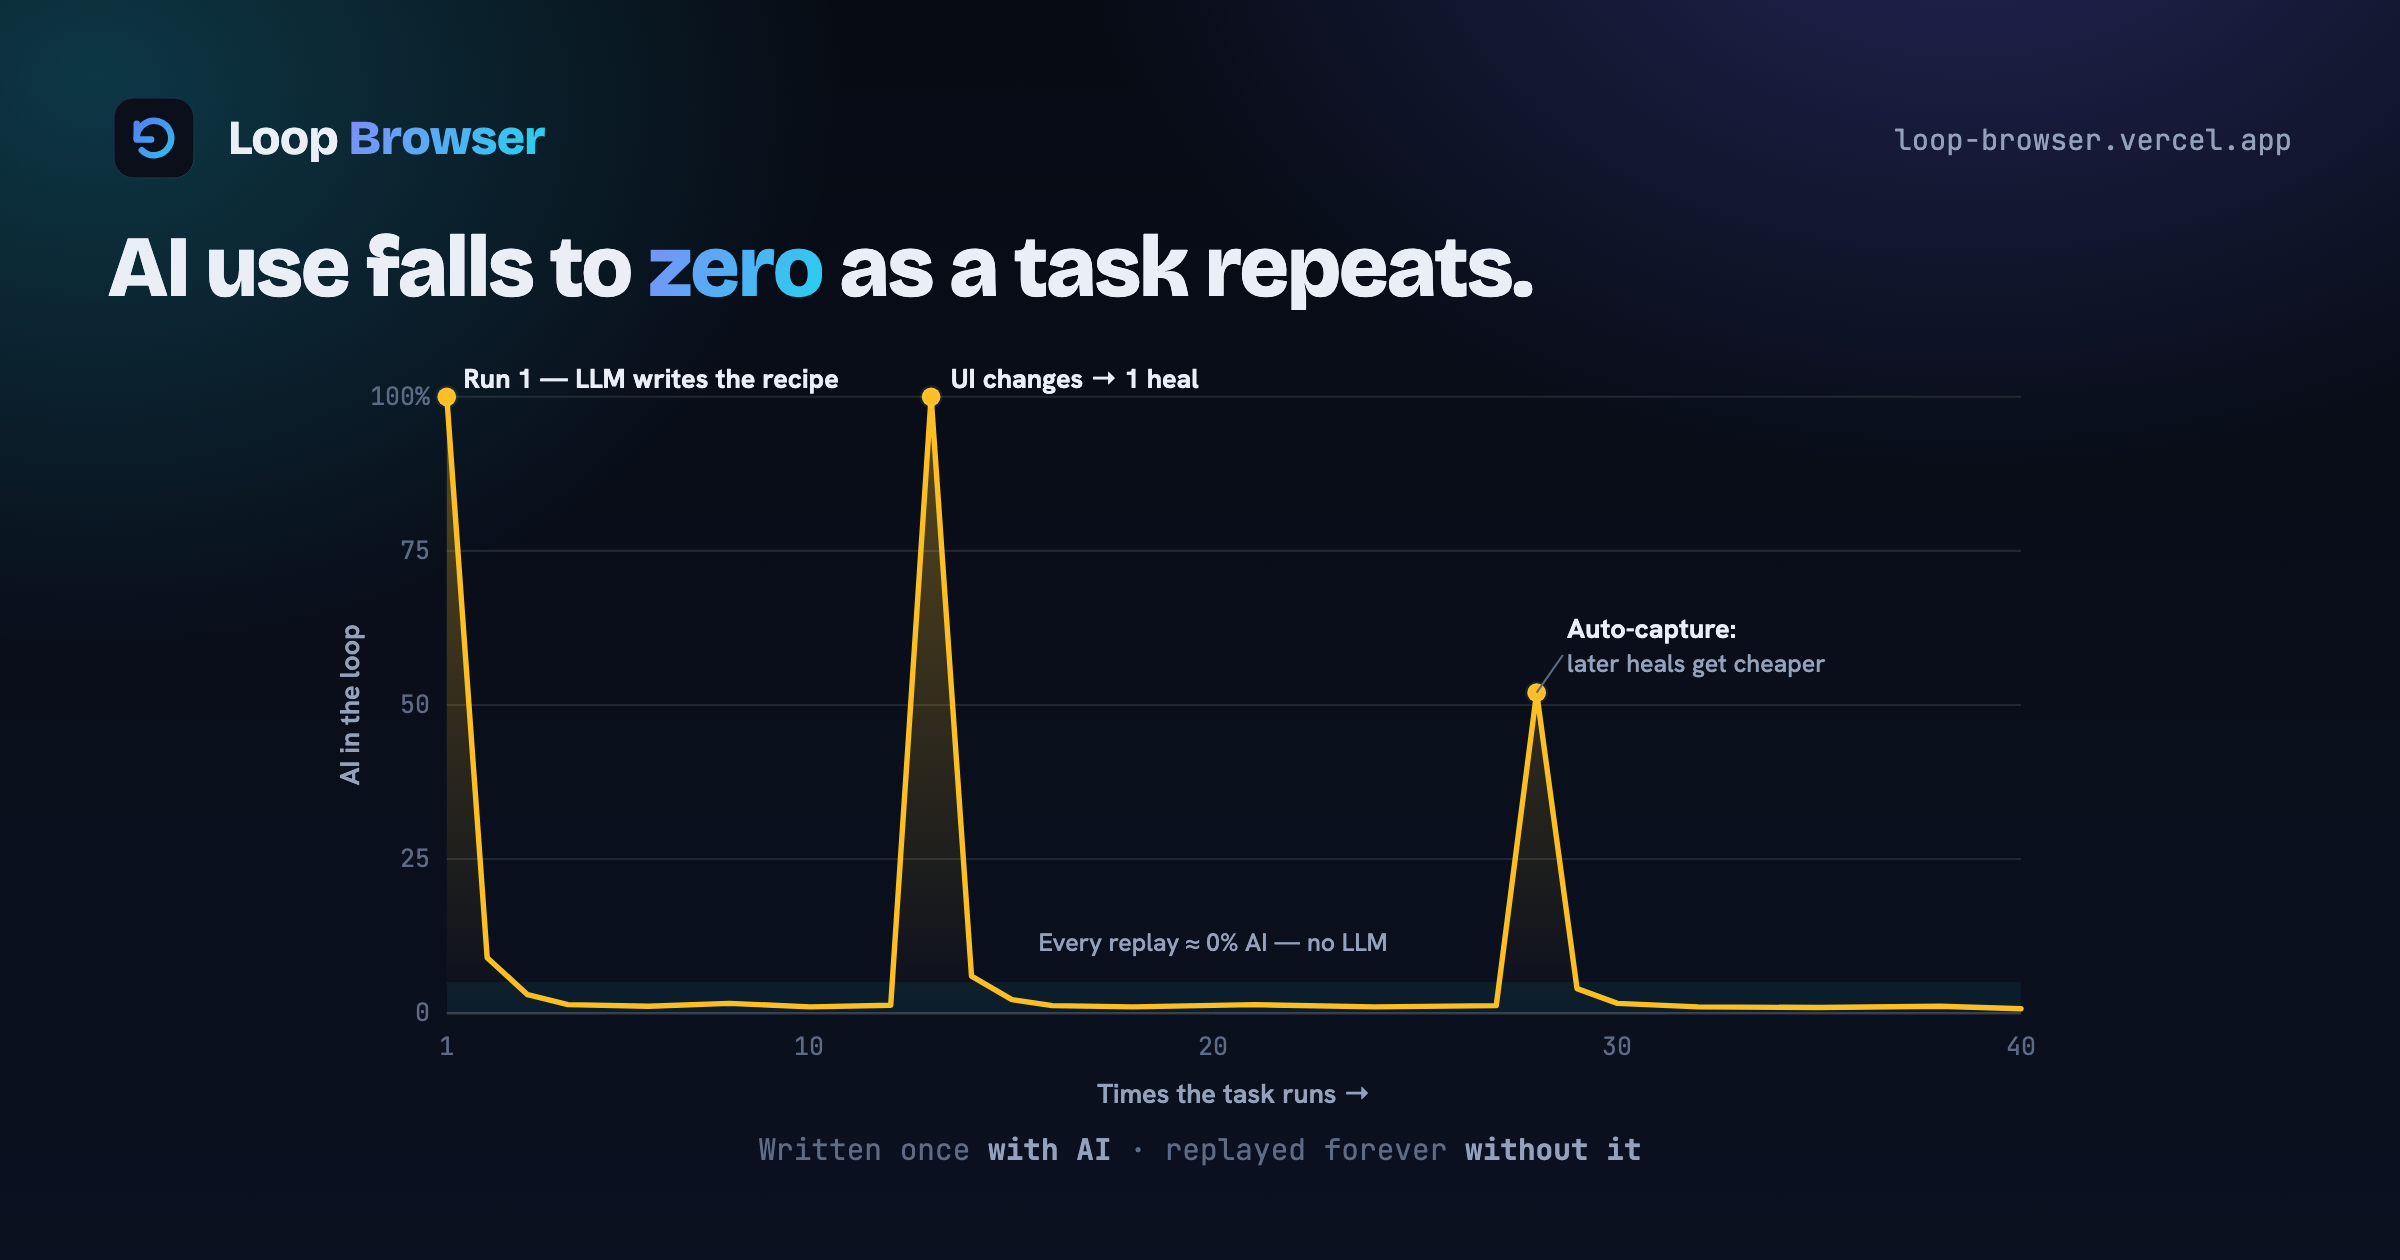
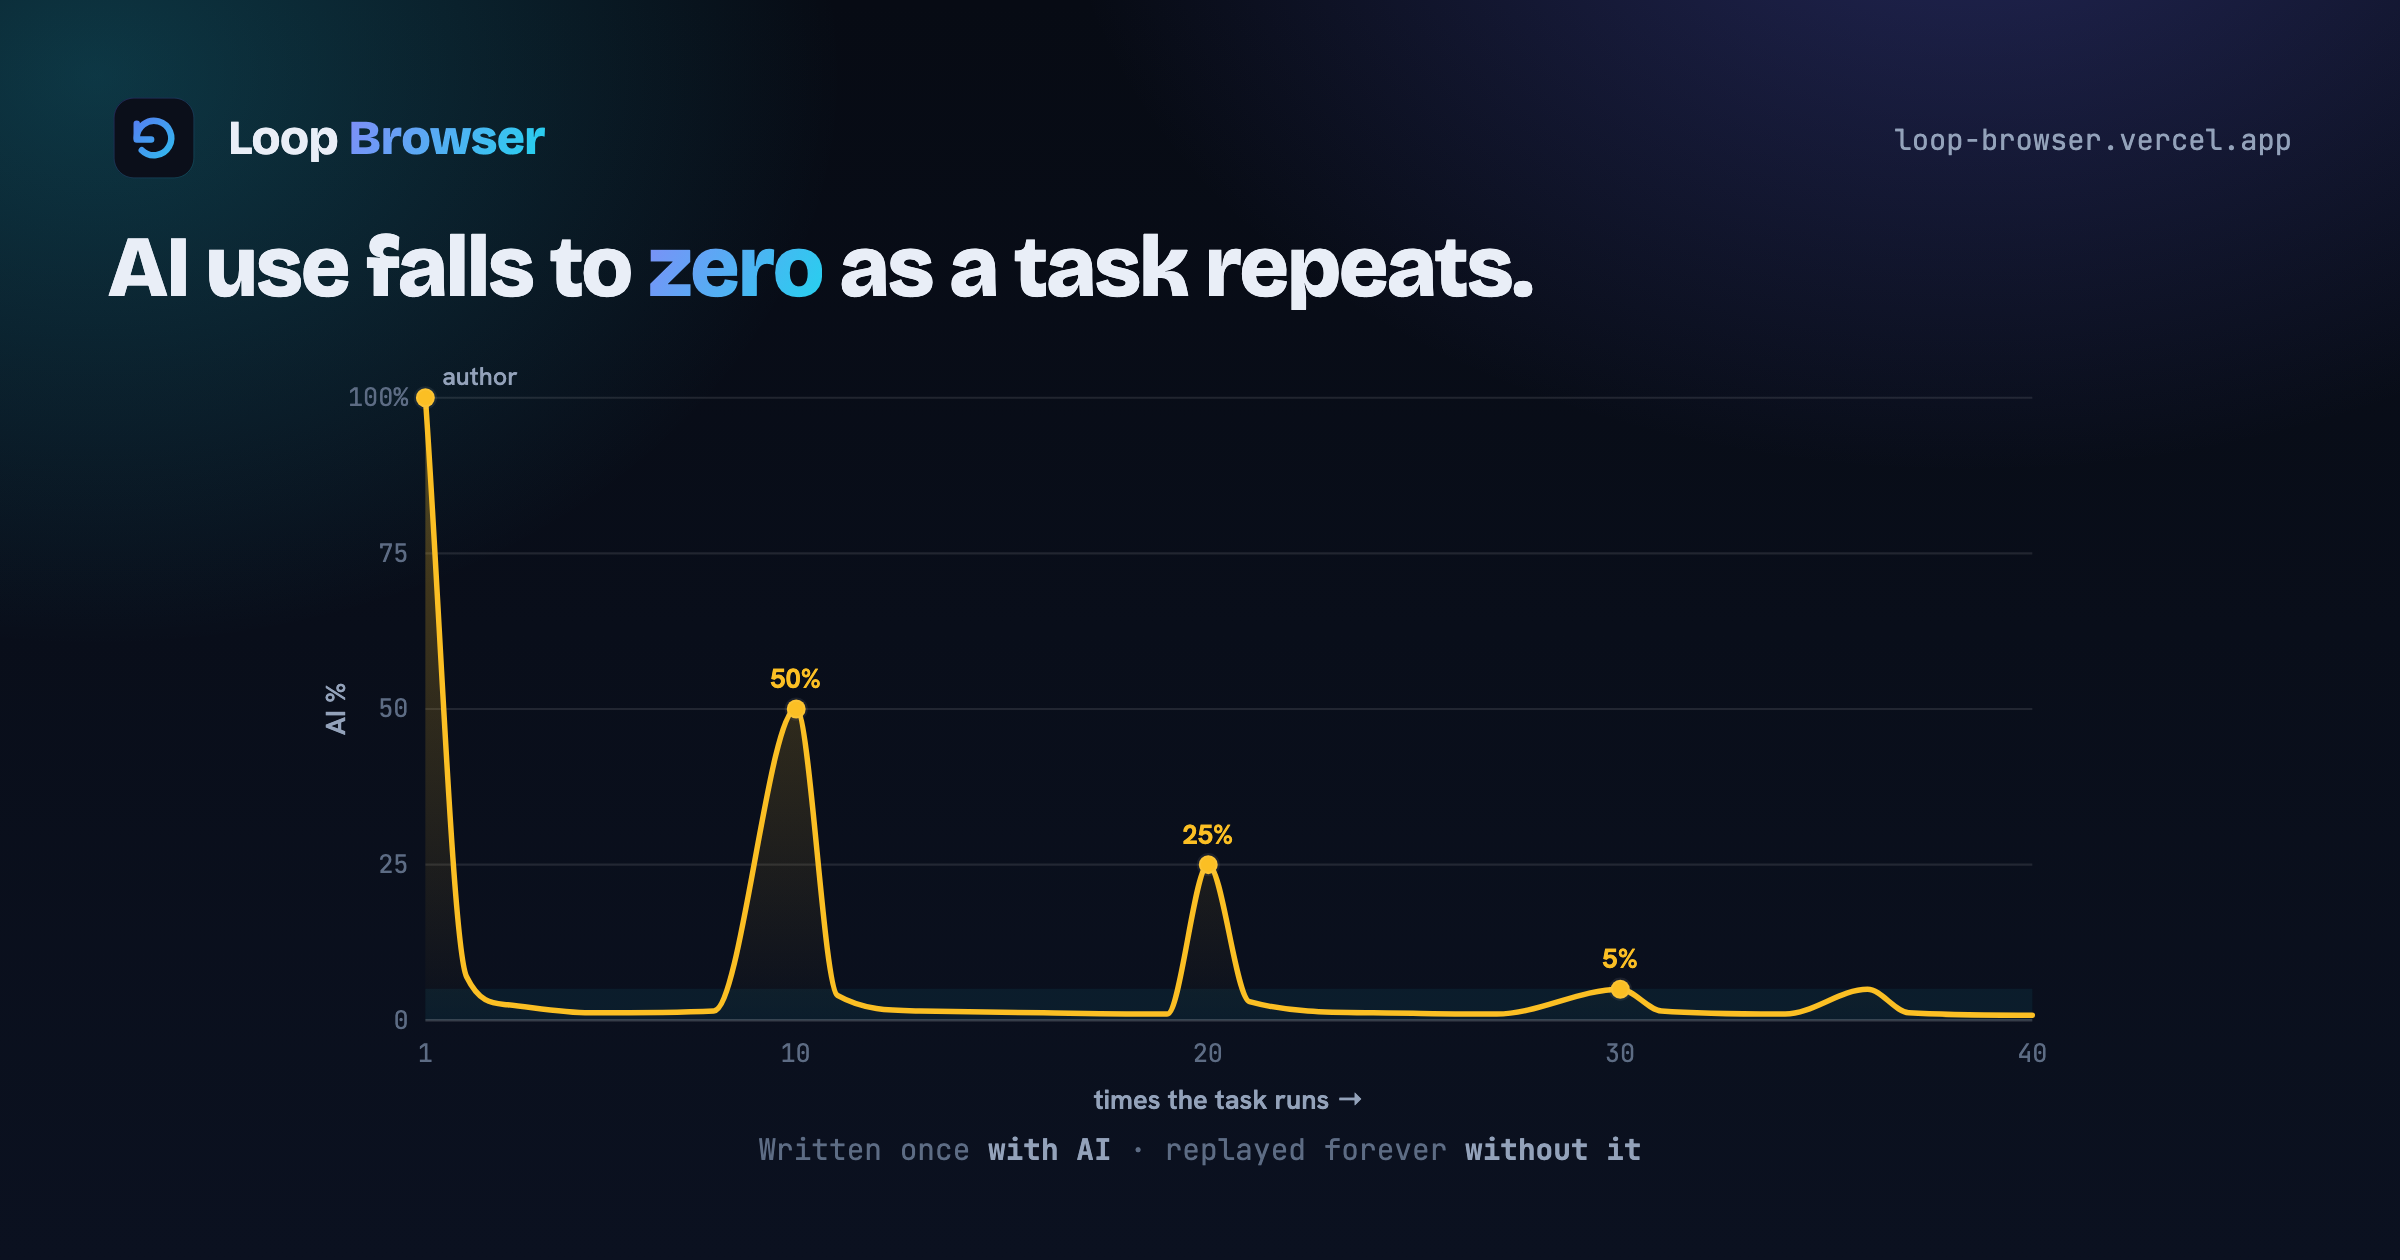
Site chart: smooth curves + decaying heals (50/25/5%), minimal labels
- Monotone-cubic curve instead of sharp spikes
- Heals now decay 50%->25%->5% (not full 100%), showing AI use drops over time
- Strip verbose annotations to just 'author' + the three heal %s; tighten subtitle
- Regenerate og.png to match

diff --git a/site/index.html b/site/index.html
@@ -320,6 +320,7 @@ footer{border-top:1px solid var(--border);padding:40px 0 56px;margin-top:40px}
     .cx-dot{fill:var(--ai);stroke:var(--panel-2);stroke-width:2}
     .cx-note{fill:var(--text);font-family:var(--body);font-size:13px;font-weight:700}
     .cx-note-sm{fill:var(--muted);font-family:var(--body);font-size:12px;font-weight:500}
+    .cx-pct{fill:var(--ai);font-family:var(--body);font-size:13px;font-weight:700}
     .cx-lead{stroke:var(--faint);stroke-width:1}
     .cx-free{fill:var(--cyan);opacity:.07}
   </style>
@@ -327,61 +328,54 @@ footer{border-top:1px solid var(--border);padding:40px 0 56px;margin-top:40px}
     <div class="head">
       <div class="eyebrow">The economics</div>
       <h2>AI use falls to <span class="g">zero</span> as a task repeats.</h2>
-      <p class="sub">The first run pays for the intelligence — the LLM writes the recipe. Every run after replays it deterministically, for free. When a page changes, one heal re-teaches the step; auto-capture makes the next heal cheaper, and it settles back to zero.</p>
+      <p class="sub">The first run writes the recipe. Every replay after is free — and even the occasional heal needs less AI each time.</p>
     </div>
     <figure class="cost-fig">
       <svg viewBox="0 0 840 380" role="img" aria-labelledby="cxT cxD">
         <title id="cxT">AI in the loop versus number of times a task has run</title>
-        <desc id="cxD">Starts at 100% on the first run when the LLM authors the recipe, drops to near zero on deterministic replays, spikes when a UI change forces a heal, and settles back toward zero as each heal gets cheaper.</desc>
+        <desc id="cxD">100% on the first run when the LLM writes the recipe, near zero on deterministic replays, and brief heal humps that shrink over time — 50%, then 25%, then about 5%.</desc>
         <defs>
           <linearGradient id="costGrad" x1="0" y1="0" x2="0" y2="1">
-            <stop offset="0" stop-color="var(--ai)" stop-opacity=".34"/>
+            <stop offset="0" stop-color="var(--ai)" stop-opacity=".32"/>
             <stop offset="1" stop-color="var(--ai)" stop-opacity="0"/>
           </linearGradient>
         </defs>
 
-        <!-- free zone -->
-        <rect class="cx-free" x="58" y="315" width="756" height="15"/>
+        <rect class="cx-free" x="52" y="317" width="764" height="15"/>
 
-        <!-- y grid + ticks -->
-        <line class="cx-grid" x1="58" y1="34"  x2="814" y2="34"/>
-        <line class="cx-grid" x1="58" y1="108" x2="814" y2="108"/>
-        <line class="cx-grid" x1="58" y1="182" x2="814" y2="182"/>
-        <line class="cx-grid" x1="58" y1="256" x2="814" y2="256"/>
-        <text class="cx-tick" x="50" y="38"  text-anchor="end">100%</text>
-        <text class="cx-tick" x="50" y="112" text-anchor="end">75</text>
-        <text class="cx-tick" x="50" y="186" text-anchor="end">50</text>
-        <text class="cx-tick" x="50" y="260" text-anchor="end">25</text>
-        <text class="cx-tick" x="50" y="334" text-anchor="end">0</text>
-        <text class="cx-title" transform="translate(16,182) rotate(-90)" text-anchor="middle">AI in the loop</text>
+        <line class="cx-grid" x1="52" y1="36"  x2="816" y2="36"/>
+        <line class="cx-grid" x1="52" y1="110" x2="816" y2="110"/>
+        <line class="cx-grid" x1="52" y1="184" x2="816" y2="184"/>
+        <line class="cx-grid" x1="52" y1="258" x2="816" y2="258"/>
+        <text class="cx-tick" x="44" y="40"  text-anchor="end">100%</text>
+        <text class="cx-tick" x="44" y="114" text-anchor="end">75</text>
+        <text class="cx-tick" x="44" y="188" text-anchor="end">50</text>
+        <text class="cx-tick" x="44" y="262" text-anchor="end">25</text>
+        <text class="cx-tick" x="44" y="336" text-anchor="end">0</text>
+        <text class="cx-title" transform="translate(14,184) rotate(-90)" text-anchor="middle">AI %</text>
 
-        <!-- x axis + ticks -->
-        <line class="cx-axis" x1="58" y1="330" x2="814" y2="330"/>
-        <text class="cx-tick" x="58"  y="350" text-anchor="middle">1</text>
-        <text class="cx-tick" x="232" y="350" text-anchor="middle">10</text>
-        <text class="cx-tick" x="426" y="350" text-anchor="middle">20</text>
-        <text class="cx-tick" x="620" y="350" text-anchor="middle">30</text>
-        <text class="cx-tick" x="814" y="350" text-anchor="middle">40</text>
-        <text class="cx-title" x="436" y="373" text-anchor="middle">Times the task runs &#8594;</text>
+        <line class="cx-axis" x1="52" y1="332" x2="816" y2="332"/>
+        <text class="cx-tick" x="52"  y="352" text-anchor="middle">1</text>
+        <text class="cx-tick" x="228" y="352" text-anchor="middle">10</text>
+        <text class="cx-tick" x="424" y="352" text-anchor="middle">20</text>
+        <text class="cx-tick" x="620" y="352" text-anchor="middle">30</text>
+        <text class="cx-tick" x="816" y="352" text-anchor="middle">40</text>
+        <text class="cx-title" x="434" y="374" text-anchor="middle">times the task runs &#8594;</text>
 
-        <!-- area + line -->
-        <path fill="url(#costGrad)" d="M 58 330 L 58 34 L 77.4 303.4 L 96.8 321.1 L 116.2 325.9 L 154.9 326.7 L 193.7 325.3 L 232.5 327 L 271.2 326.2 L 290.6 34 L 310 312.2 L 329.4 323.5 L 348.8 326.4 L 387.5 327 L 445.7 325.9 L 503.8 327 L 562 326.4 L 581.4 176.1 L 600.8 318.2 L 620.2 325.3 L 658.9 327 L 717.1 327.3 L 775.2 326.7 L 814 327.9 L 814 330 Z"/>
-        <path class="cx-line" d="M58 34 L77.4 303.4 L96.8 321.1 L116.2 325.9 L154.9 326.7 L193.7 325.3 L232.5 327 L271.2 326.2 L290.6 34 L310 312.2 L329.4 323.5 L348.8 326.4 L387.5 327 L445.7 325.9 L503.8 327 L562 326.4 L581.4 176.1 L600.8 318.2 L620.2 325.3 L658.9 327 L717.1 327.3 L775.2 326.7 L814 327.9"/>
+        <path fill="url(#costGrad)" d="M52 332 L52 36 C58.53 127.76 65.06 297.98 71.59 311.28 C78.12 324.58 84.65 323.90 91.18 324.6 C104.24 326.01 117.30 328.45 130.36 328.45 C149.95 328.45 169.54 328.45 189.13 327.56 C202.19 326.97 215.25 184.00 228.31 184 C234.84 184.00 241.37 316.46 247.9 320.16 C260.96 327.56 274.02 327.35 287.08 327.56 C306.67 327.88 326.26 328.20 345.85 328.45 C365.44 328.70 385.03 329.04 404.62 329.04 C411.15 329.04 417.68 258.00 424.21 258 C430.74 258.00 437.26 321.35 443.79 323.12 C463.38 328.45 482.97 328.29 502.56 328.45 C522.15 328.61 541.74 329.04 561.33 329.04 C580.92 329.04 600.51 317.20 620.1 317.2 C626.63 317.20 633.16 327.07 639.69 327.56 C659.28 329.04 678.87 329.04 698.46 329.04 C711.52 329.04 724.58 317.20 737.64 317.2 C744.17 317.20 750.70 328.06 757.23 328.45 C776.82 329.63 796.41 329.55 816 329.63 L816 332 Z"/>
+        <path class="cx-line" d="M52 36 C58.53 127.76 65.06 297.98 71.59 311.28 C78.12 324.58 84.65 323.90 91.18 324.6 C104.24 326.01 117.30 328.45 130.36 328.45 C149.95 328.45 169.54 328.45 189.13 327.56 C202.19 326.97 215.25 184.00 228.31 184 C234.84 184.00 241.37 316.46 247.9 320.16 C260.96 327.56 274.02 327.35 287.08 327.56 C306.67 327.88 326.26 328.20 345.85 328.45 C365.44 328.70 385.03 329.04 404.62 329.04 C411.15 329.04 417.68 258.00 424.21 258 C430.74 258.00 437.26 321.35 443.79 323.12 C463.38 328.45 482.97 328.29 502.56 328.45 C522.15 328.61 541.74 329.04 561.33 329.04 C580.92 329.04 600.51 317.20 620.1 317.2 C626.63 317.20 633.16 327.07 639.69 327.56 C659.28 329.04 678.87 329.04 698.46 329.04 C711.52 329.04 724.58 317.20 737.64 317.2 C744.17 317.20 750.70 328.06 757.23 328.45 C776.82 329.63 796.41 329.55 816 329.63"/>
 
-        <!-- peaks -->
-        <circle class="cx-dot" cx="58" cy="34" r="4.5"/>
-        <circle class="cx-dot" cx="290.6" cy="34" r="4.5"/>
-        <circle class="cx-dot" cx="581.4" cy="176.1" r="4.5"/>
+        <circle class="cx-dot" cx="52" cy="36" r="4.5"/>
+        <circle class="cx-dot" cx="228.31" cy="184" r="4.5"/>
+        <circle class="cx-dot" cx="424.21" cy="258" r="4.5"/>
+        <circle class="cx-dot" cx="620.1" cy="317.2" r="4.5"/>
 
-        <!-- annotations -->
-        <text class="cx-note" x="66" y="30">Run 1 — LLM writes the recipe</text>
-        <text class="cx-note" x="300" y="30">UI changes &#8594; 1 heal</text>
-        <line class="cx-lead" x1="581.4" y1="176.1" x2="594" y2="158"/>
-        <text class="cx-note" x="596" y="150">Auto-capture:</text>
-        <text class="cx-note-sm" x="596" y="166">later heals get cheaper</text>
-        <text class="cx-note-sm" x="426" y="300" text-anchor="middle">Every replay &#8776; 0% AI — no LLM</text>
+        <text class="cx-note-sm" x="60" y="30">author</text>
+        <text class="cx-pct" x="228" y="174" text-anchor="middle">50%</text>
+        <text class="cx-pct" x="424" y="248" text-anchor="middle">25%</text>
+        <text class="cx-pct" x="620" y="307" text-anchor="middle">5%</text>
       </svg>
-      <figcaption>AI in the loop vs. how many times a task has run — author once, replay free, heal on change, back to zero.</figcaption>
+      <figcaption>AI in the loop vs. times a task runs — author once; even heals need less AI over time.</figcaption>
     </figure>
   </div>
 </section>